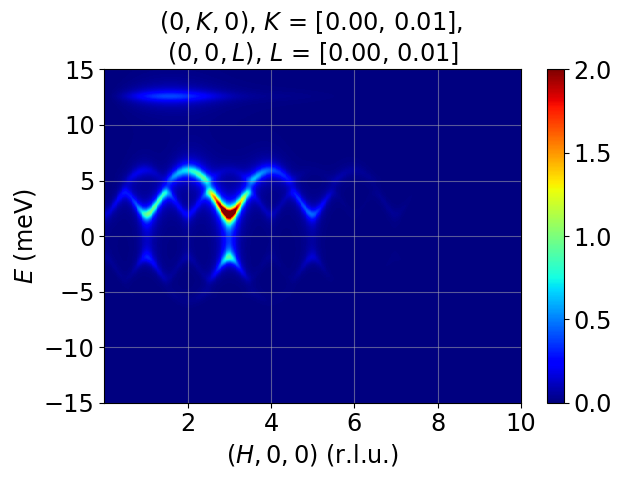
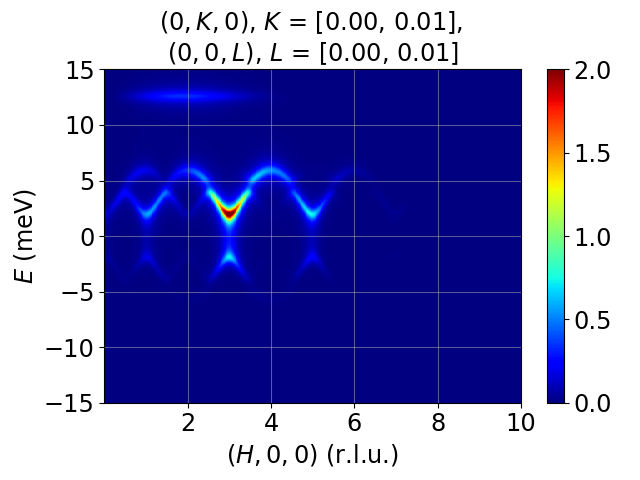
uploaded figures for tutorials

Changed region(s): [[0.1875, 0.3125, 0.5312, 0.5938], [0.3125, 0.1875, 0.4062, 0.2188], [0.1875, 0.1875, 0.2812, 0.2188]]

diff --git a/tutorials/9_sample_AFM_1d_ABA_supercell.py b/tutorials/9_sample_AFM_1d_ABA_supercell.py
@@ -64,7 +64,7 @@ if __name__ == "__main__":
             n_Rp=(0, 1, 0),
         ),
         Atoms(t=(0.75 + z / 2, 0, 0), ion="Mn2", spin=s2, aniso=aniso),
-        Atoms(t=(0.75 - z, 0, 0), ion="Mn2", spin=s2, aniso=aniso),
+        Atoms(t=(0.75 - z / 2, 0, 0), ion="Mn2", spin=s2, aniso=aniso),
     ]
     afm_chain_ABA.add_atoms(atoms)
     # -------------------------------------------------------------
